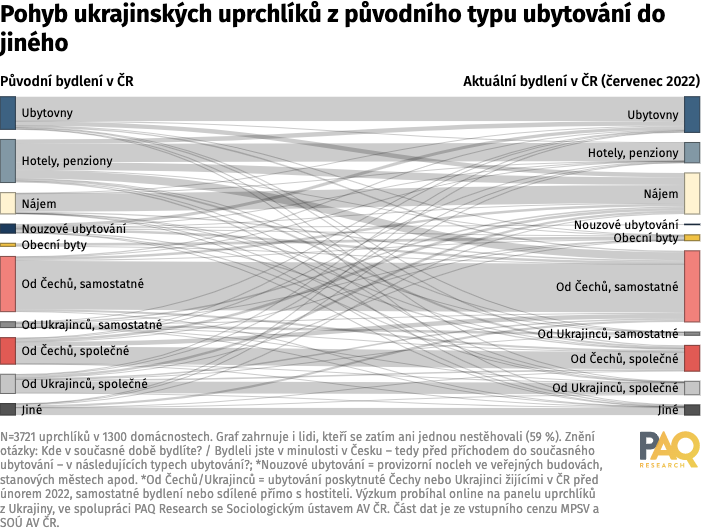
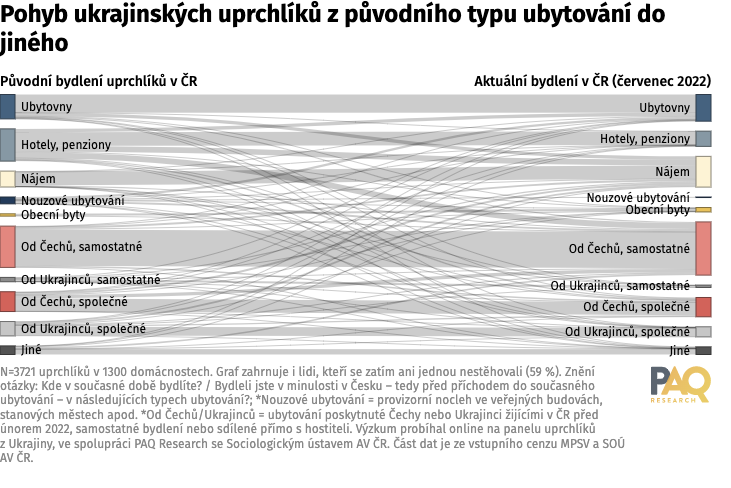
Embed

diff --git a/ua_bydleni/sankey.html b/ua_bydleni/sankey.html
@@ -34,11 +34,47 @@
       margin: 20px auto;
       max-width: 800px;
     }
+
+    .paq-pre {
+      margin: 0;
+      padding: 10px;
+      background: #eee;
+      white-space: break-spaces;
+      word-break: break-word;
+      font-size: 12px;
+    }
+
+    .paq-embed-container {
+      margin: 30px 0 0 0;
+    }
+
+    .paq-embed-container h2 {
+      margin: 0 0 10px 0;
+      padding: 0;
+      font-family: 'Fira Sans', sans-serif;
+      font-size: 18px;
+      line-height: 1.2;
+      font-weight: bold;
+    }
   </style>
+  <script type="text/javascript">
+const embedCode = '<iframe src="sankey-embed.html" scrolling="no" frameborder="0" allowtransparency="true" style="width: 0; min-width: 100% !important;" height="550" id="paq-ua-bydleni-sankey"></iframe>' + "\n" + '<script type="text/javascript">window.addEventListener("message",function(a){if(void 0!==a.data["paq-embed-height"])for(var e in a.data["paq-embed-height"])if("paq-ua-bydleni-sankey"==e){var d=document.querySelector("#paq-ua-bydleni-sankey");d&&(d.style.height=a.data["paq-embed-height"][e]+"px")}});</' + 'script>';
+
+document.addEventListener("DOMContentLoaded", function() {
+  document.querySelector('#sankey-embed-code').textContent = embedCode.trim()
+})
+
+  </script>
 </head>
 <body>
   <div class="paq-main-container">
-    <iframe src="sankey-embed.html" scrolling="no" frameborder="0" allowtransparency="true" style="width: 0; min-width: 100% !important;" height="550"></iframe>
+    <iframe src="sankey-embed.html" scrolling="no" frameborder="0" allowtransparency="true" style="width: 0; min-width: 100% !important;" height="550" id="paq-ua-bydleni-sankey"></iframe>
+    <script type="text/javascript">window.addEventListener("message",function(a){if(void 0!==a.data["paq-embed-height"])for(var e in a.data["paq-embed-height"])if("paq-ua-bydleni-sankey"==e){var d=document.querySelector("#paq-ua-bydleni-sankey");d&&(d.style.height=a.data["paq-embed-height"][e]+"px")}});</script>
+
+    <div class="paq-embed-container">
+      <h2>Kód k vložení do vlastních stránek</h2>
+      <pre class="paq-pre"><code id="sankey-embed-code"></code></pre>
+    </div>
   </div>
 </body>
 </html>

diff --git a/ua_bydleni/sankey-embed.html b/ua_bydleni/sankey-embed.html
@@ -1585,14 +1585,13 @@ return function(){for(var n=0,e=0;e<t;++e)n+=Math.random();return n}},um=functio
     margin: 0;
     padding: 0 !important;
     font-family: 'Fira Sans', sans-serif;
+    overflow: initial !important;
+    width: auto !important;
+    height: auto !important;
   }
 
   .paq-main-container {
-    position: absolute;
-    left: 0;
-    right: 0;
-    top: 0;
-    bottom: 0;
+    position: static !important;
     inset: 0 !important;
     display: flex;
     flex-direction: column;
@@ -1611,6 +1610,7 @@ return function(){for(var n=0,e=0;e<t;++e)n+=Math.random();return n}},um=functio
   .paq-sankey-wrapper {
     flex: 1 0 0px;
     margin: -20px -20px -20px -20px;
+    min-height: 300px;
   }
 
   .paq-side-labels {
@@ -1654,27 +1654,35 @@ return function(){for(var n=0,e=0;e<t;++e)n+=Math.random();return n}},um=functio
   }
 </style>
 <script>
-/*
 function sendWidthToParentWindow() {
+  const containerEl = document.querySelector('#htmlwidget_container')
+  const height = containerEl.getBoundingClientRect().height
+
   if (window.parent) {
     window.parent.postMessage(
       {
         "paq-embed-height": {
-          [id]: height,
+          "paq-ua-bydleni-sankey": height,
         },
       },
       "*"
     );
   }
 }
-*/
+document.addEventListener("DOMContentLoaded", function() {
+  sendWidthToParentWindow()
+  setTimeout(sendWidthToParentWindow, 300)
+  setTimeout(sendWidthToParentWindow, 1000)
+  setTimeout(sendWidthToParentWindow, 2000)
+  setTimeout(sendWidthToParentWindow, 5000)
+})
 </script>
 </head>
 <body style="background-color: white;">
   <div id="htmlwidget_container" class="paq-main-container">
     <h1 class="paq-title">Pohyb ukrajinských uprchlíků z původního typu ubytování do jiného</h1>
     <div class="paq-side-labels">
-      <div class="paq-side-label-left">Původní bydlení v&nbsp;ČR</div>
+      <div class="paq-side-label-left">Původní bydlení uprchlíků v&nbsp;ČR</div>
       <div class="paq-side-label-right">Aktuální bydlení v&nbsp;ČR (červenec&nbsp;2022)</div>
     </div>
     <div class="paq-sankey-wrapper">
